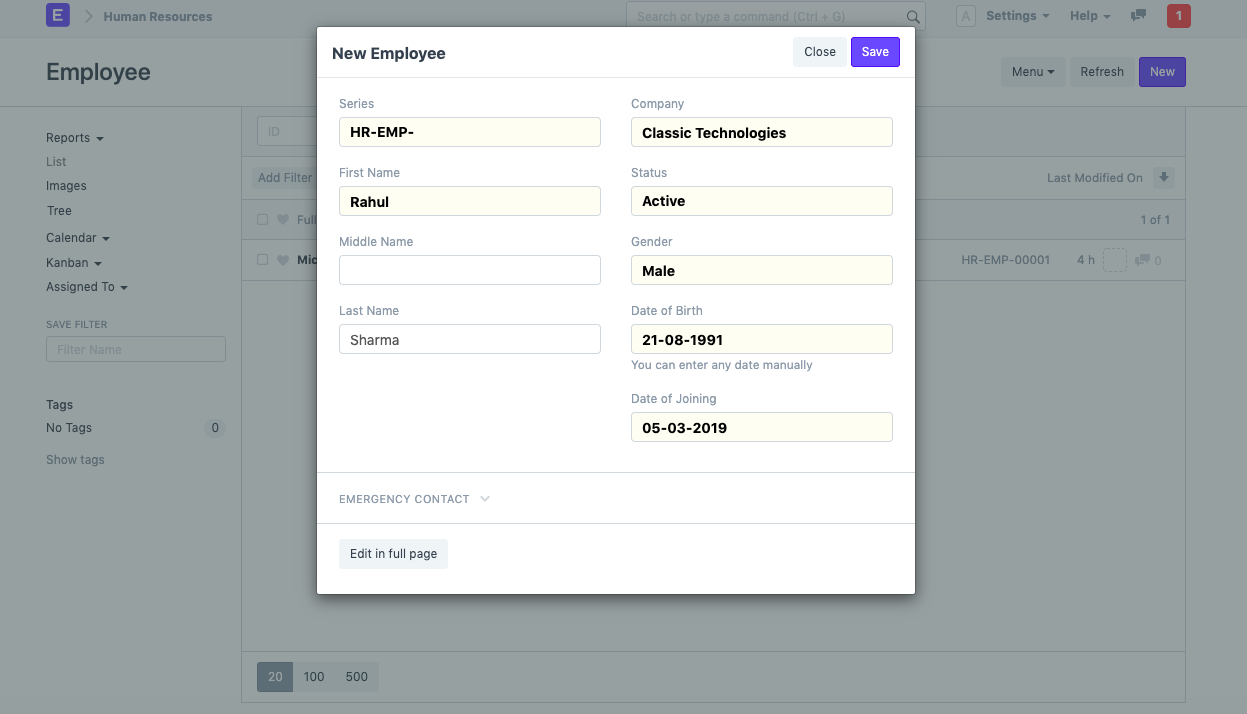
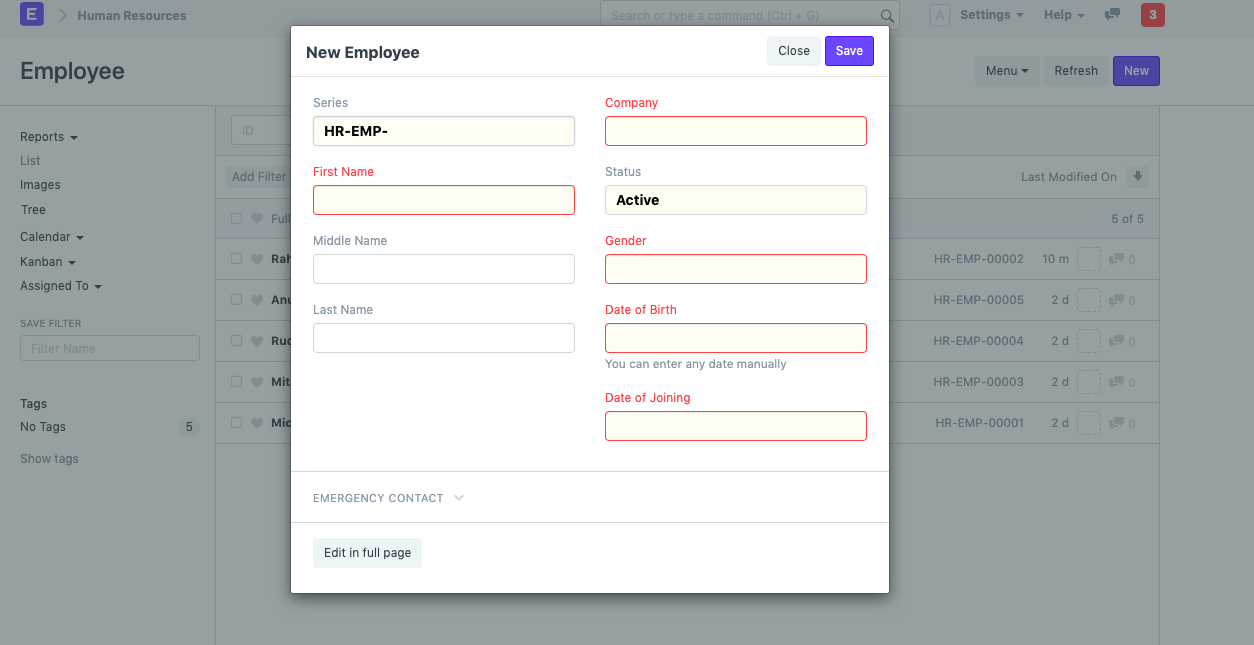
updating HR documentation

diff --git a/erpnext_com/www/docs/user/manual/en/human-resources/employee.md b/erpnext_com/www/docs/user/manual/en/human-resources/employee.md
@@ -1,52 +1,111 @@
 <!-- add-breadcrumbs -->
 # Employee
 
-**An individual who works part-time or full-time under a contract of employment, and has recognized rights and duties is your Employee.**
+**An individual who works part-time or full-time under a contract of employment, and has recognized rights and duties of your company is your Employee.**
 
-In ERPNext, you can manage Employee master. The Employee master captures demographics, personal and professional details, joining and leave details, etc. of the Employee.
+In ERPNext, you can manage the Employee master. It captures the demographic, personal and professional details, joining and leave details, etc. of the Employee. 
+
+
+To access the Employee master, go to:
+
+> Home > Human Resources > Employee and Attendance > Employee
 
 ## 1. How to create an Employee
 
 To create a new Employee:
 
-1. Go to: **Human Resources > Employee and Attendance > Employee > New**
-1. Enter the Company name.
-1. Enter the Employee's personal details such as name, gender, date of birth and date of joining.
-1. Enter the status of employee, i.e. Active or Left.
-1. Save and submit.
+1. Click on Employee > New.
+1. Enter the Employee's personal details  such as Name, Gender, Date of Birth, and Date of Joining.
+1. Save.
 
-<img class="screenshot" alt="Employee" src="{{docs_base_url}}/assets/img/human-resources/new-employee-mandatory.png">
+As shown below, all the mandatory fields are highlighted.
 
- The above details are mandatory to create an Employee master.
+<img class="screenshot" alt="Contact Details" src="{{docs_base_url}}/assets/img/human-resources/new-employee-mandatory.png">
 
- ## 2. Features 
+## 2. Features 
 
- Apart from the aforementioned details, some additional details that can be captured in the Employee master are as follows:
+Apart from the aforementioned mandatory details, some additional details that can be captured in the Employee master are as follows:
 
- ### 2.1 Emergency Contact
+### 2.1 Employment Type
 
- Emergency contact name and phone details for the Employee can be added. Additionally, the employee's relation with the emergency contact can also be noted.
-
- <img class="screenshot" alt="Emergency Contact" src="{{docs_base_url}}/assets/img/human-resources/emergency-contact.png">
+In this section, the [Employment Type](/docs/user/manual/en/human-resources/employment-type) such as Intern, Contract, Full-time, Part-time, Probation, etc. from the Employment Type dropdown can be selected. 
 
 
- ### 2.2 Create ERPNext User
+### 2.2 Create ERPNext User
 
- If the Employee is already a user in the system and has a USer ID, then you can link that particular user with the employee master. A User ID can be also created for the employee by clicking on the "create a new user" in the dropdown. Furthermore, by selecting the checkbox "Create User Permission", you can restrict the access of this particular user 
+ In this section the User ID can be linked to the Employee. In case the User ID is not created, you can click on 'Create a New User' in the dropdown to create one. By clicking on the 'Create User Permission' checkbox, the Employee's access to other records can be restricted.
 
-<img class="screenshot" alt="ERPNext User" src="{{docs_base_url}}/assets/img/human-resources/create-user.png">
 
- ### 2.3 
+### 2.3 Joining Details
+
+In this section, the Joining Details of the Employee such as the Offer Date, Confirmation Date, Contract End Date, Notice (Days), and Date of Retirement can be captured. 
+
+
+### 2.4 Department and Grade
+
+In a company, the Employees are usually grouped on the basis of [Department](/docs/user/manual/en/human-resources/department), [Grade](/docs/user/manual/en/human-resources/employee-grade), [Designation](/docs/user/manual/en/human-resources/designation), and [Branch](/docs/user/manual/en/human-resources/branch). In this section,these details of the Employee can be saved. In the 'Reports to' field, the person to whom the Employee has to report his duties to is specified.
+
+
+### 2.5 Leave Details
+
+In Leave Details, you can save the [Leave Policy](/docs/user/manual/en/human-resources/leave-policy) and [Holiday List](/docs/user/manual/en/human-resources/holiday-list) details. Leave Policy specifies the type and number of leaves an Employee is entitled to, and Holiday List is a list which contains the dates of holidays and weekly offs.
+
+
+### 2.6 Salary Details
+
+In the Salary Details section,  the mode of salary payment, i.e. through Bank, Cheque or Cash can be selected.
+
+
+### 2.7 Contact Details
+
+In this section, the Employee's Contact information such as Mobile number, Current and Permanent Address, Personal and Company Email ID can be captured. In the Preferred Email ID field, either the the Company Email, Personal Email or User ID of the Employee can be selected.
  
- You can further use this Employee master for performing various HR functions like:
 
-1. Payroll Processing
-1. Leave Allocation and Application
-1. Employee Advance and Expense Claim
-1. Employee Recruitment and Training
-1. Employee Appraisals, Expense Claims and Loans
-1. Employee Lifecycle Management
-1. Employee Shift Management
+### 2.8 Personal Details
+
+In this section, all the Personal Details of the Employee such as Family Background details like name and occupation of parent, spouse and children, Passport Details including date and place of issue, Health Details like height, weight, allergies, medical concerns, etc. are saved. 
+
+### 2.9 Educational Qualification
+
+The Educational Qualification details of the Employee can be filled in the Education table. To add a new entry, click on the 'Add Row' button. Details such as School/University, Qualification, Level and Year of Passing can be filled as shown below:
+
+<img class="screenshot" alt="Educational Qualification" src="{{docs_base_url}}/assets/img/human-resources/educational-qualification.png">
+
+Additionally, extra details such as Class/Percentage and Subjects can also be saved by clicking on the downward arrow in the Education table.
+
+### 2.10 Previous Work Experience
+
+Just like his/her Educational Qualification, an Employee's Previous Work Experience can be captured in the External Work History table as shown below:
+
+<img class="screenshot" alt="Previous Work Experience" src="{{docs_base_url}}/assets/img/human-resources/previous-work-experience.png">
+
+Additionally, extra details such as Contact of the previous company and Total Experience in years can also be saved by clicking on the downward arrow in the External Work History table.
+
+### 2.11 Exit
+
+In this section, the exit details of the employee can be saved. These include the Resignation, Exit Interview and [Leave Encashment](/docs/user/manual/en/human-resources/leave-encashment) details. When the status of the Employee is set to 'Left', it is mandatory to fill the Relieving 
+
+### 2.12 Additional Features
+Some additional features included in the Employee master are as follows:
+
+* Emergency Contact
+* Health Insurance
+* Personal Bio
+* History in the Company
+
+
+
+## 3. Related Topics
+
+1. [Employment Type](/docs/user/manual/en/human-resources/employment-type)
+1. [Job Applicant](/docs/user/manual/en/human-resources/job-applicant) 
+1. [Employee Department](/docs/user/manual/en/human-resources/department)
+1. [Employee Grade](/docs/user/manual/en/human-resources/employee-grade)
+1. [Employee Branch](/docs/user/manual/en/human-resources/branch)
+1. [Employee Designation](/docs/user/manual/en/human-resources/designation)
+1. [Leave Policy](/docs/user/manual/en/human-resources/leave-policy)
+1. [Holiday List](/docs/user/manual/en/human-resources/holiday-list)
+1. [Leave Encashment](/docs/user/manual/en/human-resources/leave-encashment)
 
 
 
